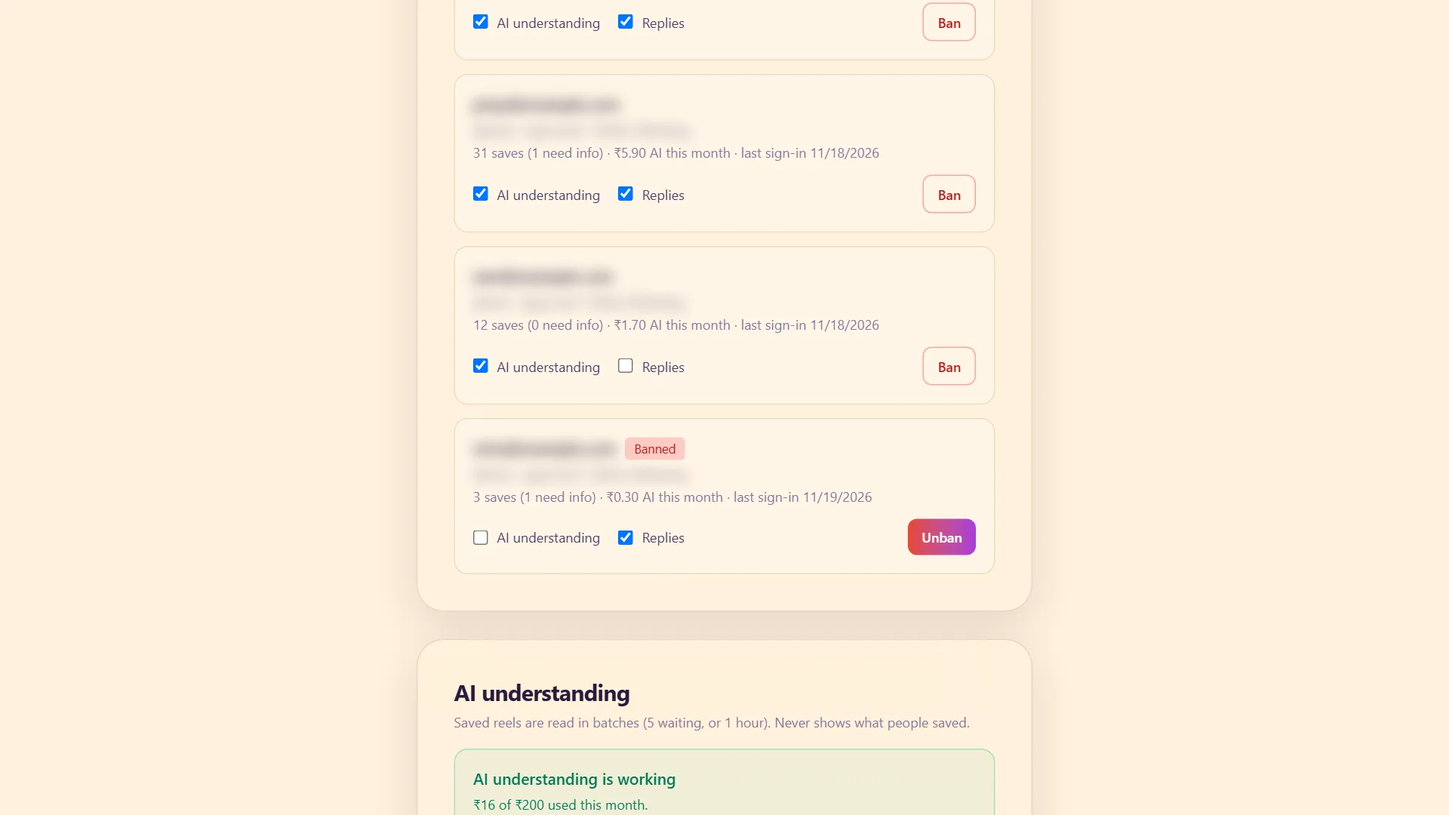
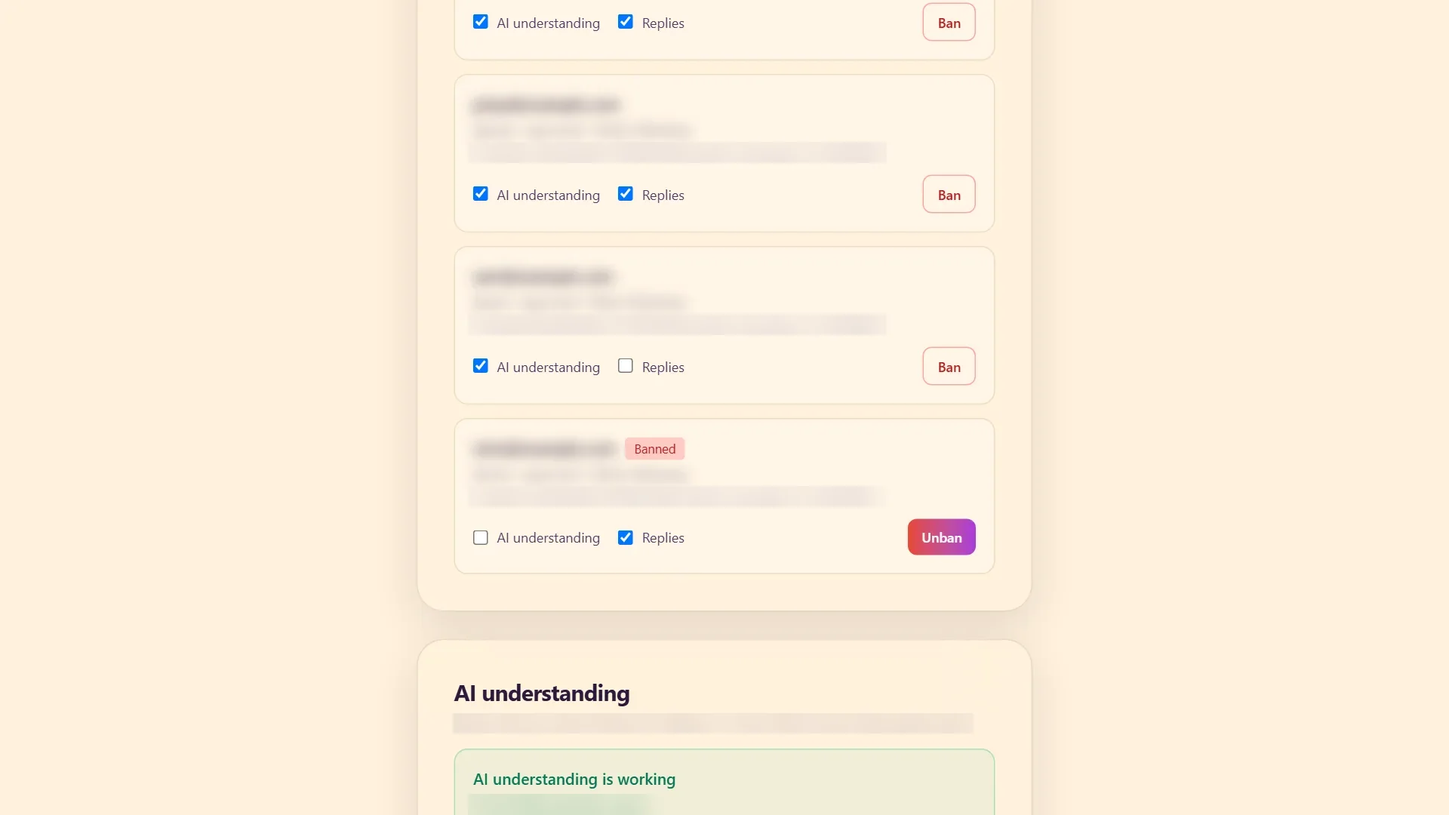
Fol.io page: plainer business copy, general "Built on" section, blurred admin values, volunteer form link
- Rewrite hero, steps, FAQ and tour in plain language; remove vendor and technical detail
- Merge Architecture and Under the hood into one general section with a contact-the-developer link
- Blur sensitive values in the admin screenshots (desktop and mobile)
- Add "Volunteer to test" buttons linking to the sign-up form; keep a tester sign-in link

diff --git a/folio.html b/folio.html
@@ -68,6 +68,10 @@
   .nav ul a { text-decoration: none; opacity: .85; } .nav ul a:hover { opacity: 1; color: var(--c5); }
   .nav .btn { min-height: 42px; padding: 0 20px; background: var(--c2); color: var(--c1); font-size: 15px; }
   .nav .btn::before { background: var(--c5); }
+  .nav-cta { display: flex; align-items: center; gap: 18px; }
+  .nav-signin { font-size: 14px; font-weight: 500; color: var(--c2); text-decoration: none; opacity: .85; white-space: nowrap; }
+  .nav-signin:hover { opacity: 1; color: var(--c5); }
+  @media (max-width: 520px) { .nav-signin { display: none; } }
   @media (max-width: 860px) { .nav ul { display: none; } }
 
   /* hero */
@@ -133,14 +137,16 @@
   /* architecture arches */
   .built { background: var(--c2); }
   .built .h2 { margin-bottom: clamp(28px, 5svh, 48px); }
-  .arches { display: grid; grid-template-columns: repeat(4, minmax(0, 1fr)); gap: 24px; }
-  .arch { border-radius: 999px 999px 0 0; padding: clamp(60px, 9vw, 120px) 28px 34px; min-height: 420px; display: flex; flex-direction: column; gap: 12px; text-align: center; align-items: center; }
+  .arches { display: grid; grid-template-columns: repeat(3, minmax(0, 1fr)); gap: 24px; }
+  .built-lead { margin-bottom: clamp(28px, 5svh, 48px); }
+  .dev-note { margin-top: clamp(28px, 5svh, 48px); display: flex; flex-wrap: wrap; align-items: center; gap: 14px 20px; font-weight: 500; }
+  .status-lead { margin-bottom: clamp(24px, 4svh, 40px); }
+  .arch { border-radius: 999px 999px 0 0; padding: clamp(56px, 7vw, 96px) 28px 34px; min-height: 300px; display: flex; flex-direction: column; gap: 12px; text-align: center; align-items: center; }
   .arch:nth-child(1) { background: var(--c5); } .arch:nth-child(2) { background: var(--c4); }
-  .arch:nth-child(3) { background: var(--c1); color: var(--c2); } .arch:nth-child(4) { background: var(--c3); color: var(--c2); }
+  .arch:nth-child(3) { background: var(--c1); color: var(--c2); }
   .arch h3 { font-size: 26px; }
   .arch p { font-size: 15.5px; }
-  .arch .tag { margin-top: auto; font-size: 13px; font-weight: 600; padding: 4px 14px; border: 1.5px solid currentColor; border-radius: var(--pill); }
-  @media (max-width: 980px) { .arches { grid-template-columns: 1fr 1fr; } }
+  @media (max-width: 980px) { .arches { grid-template-columns: 1fr; } .arch { min-height: 0; padding-top: 56px; } }
   @media (max-width: 560px) { .arches { grid-template-columns: 1fr; } .arch { min-height: 0; } }
 
   /* manifesto */
@@ -152,16 +158,6 @@
   @media (max-width: 760px) { .two { grid-template-columns: 1fr; } }
 
   /* stack tiles */
-  .stack { background: var(--c6); color: var(--c2); }
-  .stack .h2 { margin-bottom: clamp(28px, 5svh, 48px); }
-  .tiles { display: grid; grid-template-columns: 1fr 1fr; gap: 14px; }
-  .tile { border-radius: var(--r); padding: clamp(24px, 3vw, 40px); display: grid; gap: 14px; align-content: start; }
-  .tile:nth-child(1) { background: var(--c5); color: var(--c1); } .tile:nth-child(2) { background: var(--c2); color: var(--c3); }
-  .tile:nth-child(3) { background: var(--c4); color: var(--c1); } .tile:nth-child(4) { background: var(--c1); color: var(--c2); border: 1.5px solid #34376a; }
-  .tile h3 { font-size: 28px; }
-  .tags { display: flex; flex-wrap: wrap; gap: 8px; }
-  .tags span { font-size: 14px; font-weight: 500; padding: 4px 14px; border: 1.5px solid currentColor; border-radius: var(--pill); }
-  @media (max-width: 760px) { .tiles { grid-template-columns: 1fr; } }
 
   /* status (replaces pricing: no prices exist, so this shows real progress) */
   .status { background: var(--c1); color: var(--c2); }
@@ -277,26 +273,26 @@
     <li><a href="#how">How it works</a></li>
     <li><a href="#library">Library</a></li>
     <li><a href="#tour">Tour</a></li>
-    <li><a href="#built">Architecture</a></li>
+    <li><a href="#built">Built on</a></li>
     <li><a href="#status">Status</a></li>
     <li><a href="#faq">FAQ</a></li>
   </ul>
-  <a class="btn" href="https://folio-phi-hazel.vercel.app" target="_blank" rel="noopener">Open Fol.io</a>
+  <div class="nav-cta"><a class="nav-signin" href="https://folio-phi-hazel.vercel.app" target="_blank" rel="noopener">Tester sign in</a><a class="btn" href="https://forms.cloud.microsoft/r/mYv7NbYgfV" target="_blank" rel="noopener">Volunteer to test</a></div>
 </header>
 
 <main id="top">
   <section class="hero">
     <div class="hero-head">
-      <div class="eyebrow">Case study · Live, in early access</div>
+      <div class="eyebrow">Live, in early access</div>
       <h1>Send a reel. <em>Fol.io keeps it</em> and files it.</h1>
-      <p class="lead">An Instagram-first content library. DM reels and posts to <strong>@getfol.io</strong> (or paste a link) and Fol.io saves each one, understands what it is about and organises it for you. No folders to make, no screenshots to lose.</p>
+      <p class="lead">You save reels and never find them again. Send them to Fol.io instead. We keep them, work out what they're about and sort them for you. It's that easy!</p>
       <div class="cta">
-        <a class="btn" href="https://folio-phi-hazel.vercel.app" target="_blank" rel="noopener">Open the app</a>
+        <a class="btn" href="https://forms.cloud.microsoft/r/mYv7NbYgfV" target="_blank" rel="noopener">Volunteer to test</a>
         <a class="link" href="#how">See how it works</a>
       </div>
     </div>
     <div class="easy">
-      <p class="easy-label"><em>It's that easy!</em></p>
+      <p class="easy-label"><em>Four taps, that's all.</em></p>
       <ol class="steps">
         <li><figure><img src="images/folio/steps/step-1-share.webp" alt="An Instagram reel with the share button circled" width="420" height="909" loading="eager"><figcaption><b>1</b>Tap share</figcaption></figure></li>
         <li><figure><img src="images/folio/steps/step-2-select.webp" alt="The Instagram share sheet with getfol.io selected" width="420" height="909"><figcaption><b>2</b>Choose Fol.io</figcaption></figure></li>
@@ -312,11 +308,11 @@
       <h2 class="h2">Five steps from reel to library.</h2>
     </div>
     <div class="col-grid">
-      <article class="col"><div><div class="num">01</div><h3>Send</h3><p>DM a reel or post to @getfol.io, or paste a link. Shares from any chat work.</p></div><div class="note">Sender is recognised from the handle you set.</div></article>
-      <article class="col"><div><div class="num">02</div><h3>Store</h3><p>The message is stored first and acknowledged at once, so nothing is lost if a step fails.</p></div><div class="note">Duplicates are dropped at the door.</div></article>
-      <article class="col"><div><div class="num">03</div><h3>Understand</h3><p>The caption and your note become a title, summary, tags, places and products.</p></div><div class="note">Behind a swappable AI provider.</div></article>
-      <article class="col"><div><div class="num">04</div><h3>Organise</h3><p>Each item is filed into a cluster, like Travel or Food. A new one-word cluster appears only when nothing fits.</p></div><div class="note">Per-user, never shared.</div></article>
-      <article class="col"><div><div class="num">05</div><h3>Reply</h3><p>You get a short text back: saved, filed, or what extra info is needed.</p></div><div class="note">Each reply is sent once.</div></article>
+      <article class="col"><div><div class="num">01</div><h3>Send</h3><p>Share a reel or post with @getfol.io on Instagram, or paste a link. Shares from any chat work.</p></div></article>
+      <article class="col"><div><div class="num">02</div><h3>Keep</h3><p>We save it straight away, so nothing gets lost along the way.</p></div></article>
+      <article class="col"><div><div class="num">03</div><h3>Understand</h3><p>We read the caption and your note to work out what it is about: a title, a short summary, tags and places.</p></div></article>
+      <article class="col"><div><div class="num">04</div><h3>Sort</h3><p>Each save goes into a group like Travel or Food. If nothing fits, we make a new one.</p></div></article>
+      <article class="col"><div><div class="num">05</div><h3>Reply</h3><p>You get a short message back on Instagram: saved, sorted, or what we need from you.</p></div></article>
     </div>
   </section>
 
@@ -325,9 +321,9 @@
       <div class="phone"><div class="screen" style="padding:0;background:#000"><img src="images/folio/mobile/overview-1-dashboard.webp" alt="The Fol.io Overview on a phone: search, colourful cluster tiles and recently saved posts" style="width:100%;height:100%;object-fit:cover;object-position:top;display:block"></div></div>
     </div>
     <div class="parts">
-      <div class="part"><div class="num">What you keep</div><h3>Links and meaning, not media.</h3><p>Fol.io stores the link to the original, the caption and what its AI understood from it. It does not download or keep video, audio or images, which keeps it light and respects the original creator. Cards show a Reel or Post label instead of a picture.</p></div>
+      <div class="part"><div class="num">What you keep</div><h3>Links and meaning, not media.</h3><p>We keep the link, the caption and a short summary of what the post is about. We never copy the video, audio or images, so the original stays with its creator.</p></div>
       <div class="part"><div class="num">What it adds</div><h3>Structure from a caption.</h3><p>A travel reel yields places and duration; a recipe yields dishes and ingredients; a product yields names and attributes. Items filed together make a library you can actually search.</p></div>
-      <div class="part"><div class="num">What stays yours</div><h3>Private by default.</h3><p>A post is read once and its reading shared across users, but each person's saves, clusters and notes are theirs alone, enforced in the database with row-level security. A save with a personal note is read privately and never shared.</p></div>
+      <div class="part"><div class="num">What stays yours</div><h3>Private by default.</h3><p>Your library is yours alone. No one else sees what you save, and you can download or delete everything whenever you like.</p></div>
     </div>
   </section>
 
@@ -339,14 +335,15 @@
   <div id="tourBlocks"></div>
 
   <section class="built" id="built">
-    <div class="eyebrow">Architecture</div>
-    <h2 class="h2">Small, bursty, event-shaped work.</h2>
+    <div class="eyebrow">Built on</div>
+    <h2 class="h2">Built on trusted platforms.</h2>
+    <p class="lead built-lead">Fol.io runs on popular, proven third-party platforms for hosting, storage, messaging and AI, so it stays quick and dependable without us running servers of our own.</p>
     <div class="arches">
-      <article class="arch"><h3>Edge receiver</h3><p>A Cloudflare Worker at a fixed address verifies the Instagram signature, stores the event and replies in milliseconds.</p><span class="tag">Cloudflare Worker</span></article>
-      <article class="arch"><h3>Stored inbox</h3><p>Events wait in Postgres and are claimed in batches with row locks. A restart loses nothing.</p><span class="tag">Supabase Postgres</span></article>
-      <article class="arch"><h3>Stateless API</h3><p>FastAPI runs as Vercel functions in Singapore, close to the database. No idle server to keep alive.</p><span class="tag">FastAPI · Vercel</span></article>
-      <article class="arch"><h3>Caption AI</h3><p>One shared reading per post: later people who save the same post only get a filing call. Batched, cost-capped, with a circuit breaker, behind a provider interface.</p><span class="tag">Gemini · swappable</span></article>
+      <article class="arch"><h3>Dependable</h3><p>Your saves are stored first, so nothing is lost if something goes wrong along the way.</p></article>
+      <article class="arch"><h3>Private</h3><p>Each person's library is kept separate. What you save is seen by you alone.</p></article>
+      <article class="arch"><h3>Ready to grow</h3><p>Built on services that scale, so more people can join without slowing things down.</p></article>
     </div>
+    <p class="dev-note">Developer, or looking to collaborate? <a class="btn" href="mailto:kartikeyadubey1997@gmail.com?subject=Fol.io%20collaboration&amp;body=Hi%20Kartikeya%2C%0A%0A">Contact the developer</a></p>
   </section>
 
   <section class="manifesto">
@@ -363,30 +360,21 @@
     </div>
   </section>
 
-  <section class="stack">
-    <div class="eyebrow">Under the hood</div>
-    <h2 class="h2">Boring where it should be.</h2>
-    <div class="tiles">
-      <article class="tile"><h3>Backend</h3><p>Typed settings, one error shape, JSON logs with request ids, a shared Postgres rate limiter, per-user AI cost tracking with a monthly cap, and startup that refuses weak secrets.</p><div class="tags"><span>FastAPI</span><span>Pydantic</span><span>SQLAlchemy async</span><span>Alembic</span></div></article>
-      <article class="tile"><h3>Frontend</h3><p>Sign-up, setup frame, Overview with cluster tiles and a pop-up, a Library with a search panel and grouped results, Clusters, an Actions tab, Settings, an admin console, pull to refresh on every signed-in page, a coral and plum theme in light and dark, and an installable PWA.</p><div class="tags"><span>React</span><span>TypeScript</span><span>Vite</span><span>Tailwind</span><span>Vitest</span></div></article>
-      <article class="tile"><h3>Security</h3><p>15-minute access tokens with rotating httpOnly refresh cookies, reuse detection, CSRF header and a least-privilege database role. A post is read once; notes stay private.</p><div class="tags"><span>Row-level security</span><span>Signed webhooks</span><span>Encrypted tokens</span></div></article>
-      <article class="tile"><h3>Delivery</h3><p>Changes land by pull request. CI runs tests, then migrations, then the deploy, as a gated workflow. A Cloudflare watchdog messages Telegram if the API stops answering.</p><div class="tags"><span>GitHub Actions</span><span>Cloudflare Worker</span><span>pytest</span><span>ruff</span></div></article>
-    </div>
-  </section>
-
+  
   <section class="status" id="status">
     <div class="eyebrow">Status</div>
-    <h2 class="h2">Early access. Built milestone by milestone.</h2>
+    <h2 class="h2">Early access.</h2>
+    <p class="lead status-lead">We're in early testing and looking for people who actively use Instagram content to revisit. It's free for you.</p>
     <div class="plans">
       <article class="plan live">
         <div class="num">Live</div>
         <ul>
-          <li>Accounts with email verification, setup frame and short text replies</li>
-          <li>Instagram DMs and pasted links saved once per post, read once by the AI</li>
-          <li>One-word clusters, filing, notes, search and filters, export and account deletion</li>
-          <li>Overview, an Actions tab, themes, an admin console with AI cost, alerts and health checks</li>
+          <li>Save reels and posts by message or link</li>
+          <li>Automatic sorting into groups you can edit</li>
+          <li>Search, notes and your own filters</li>
+          <li>Download or delete your data any time</li>
         </ul>
-        <a class="btn" href="https://folio-phi-hazel.vercel.app" target="_blank" rel="noopener">Open Fol.io</a>
+        <div class="cta"><a class="btn" href="https://forms.cloud.microsoft/r/mYv7NbYgfV" target="_blank" rel="noopener">Volunteer to test</a><a class="link" href="https://folio-phi-hazel.vercel.app" target="_blank" rel="noopener">Already a tester? Sign in</a></div>
       </article>
     </div>
   </section>
@@ -395,10 +383,10 @@
     <div>
       <h2 class="h2">Questions.</h2>
       <details><summary>Who is Fol.io for?</summary><p>Anyone who saves a lot of Instagram content and wants it findable later: travel ideas, recipes, products, workouts, study material.</p></details>
-      <details><summary>Does it store my videos?</summary><p>No. It keeps the link, the caption and what the AI understood from the caption. The original stays on Instagram, and no video, audio or image is copied.</p></details>
-      <details><summary>Can other users see my saves?</summary><p>No. A post is understood once and shared internally, but your saves, notes and clusters are private to you and protected in the database itself.</p></details>
-      <details><summary>How do I get access?</summary><p>Fol.io is in early access. Create an account, set your Instagram handle and an admin confirms you for testing.</p></details>
-      <details><summary>Is this connected to DexAI?</summary><p>Fol.io started from DexAI's patterns (FastAPI, Postgres, React) and then moved to a lighter, event-driven design that suits bursty message work. <a class="link" href="dexai.html">See DexAI</a>.</p></details>
+      <details><summary>Does it store my videos?</summary><p>No. We keep the link, the caption and a short summary of what the post is about. The original stays on Instagram, and no video, audio or image is copied.</p></details>
+      <details><summary>Can other users see my saves?</summary><p>No. Your saves, notes and clusters are private to you.</p></details>
+      <details><summary>How do I get access?</summary><p>Fol.io is in early testing and free for volunteers. <a class="link" href="https://forms.cloud.microsoft/r/mYv7NbYgfV" target="_blank" rel="noopener">Fill in the short volunteer form</a> and we will contact you to help set up your access. After that you can create your account.</p></details>
+      <details><summary>Is this connected to DexAI?</summary><p>Fol.io grew out of what I learned building DexAI, my earlier project. Different product, same care. <a class="link" href="dexai.html">See DexAI</a>.</p></details>
     </div>
     <div class="faq-arch" aria-hidden="true"><img src="folio-mark.png" alt=""></div>
   </section>
@@ -417,8 +405,8 @@
   <div class="f-top">
     <p class="f-lead">Send it once. Find it forever.</p>
     <div class="f-cols">
-      <ul><li><a href="#how">How it works</a></li><li><a href="#tour">Product tour</a></li><li><a href="#built">Architecture</a></li><li><a href="#status">Status</a></li></ul>
-      <ul><li><a href="index.html">Portfolio</a></li><li><a href="dexai.html">DexAI</a></li><li><a href="https://folio-phi-hazel.vercel.app" target="_blank" rel="noopener">Open Fol.io</a></li></ul>
+      <ul><li><a href="#how">How it works</a></li><li><a href="#tour">Product tour</a></li><li><a href="#built">Built on</a></li><li><a href="#status">Status</a></li></ul>
+      <ul><li><a href="index.html">Portfolio</a></li><li><a href="dexai.html">DexAI</a></li><li><a href="https://forms.cloud.microsoft/r/mYv7NbYgfV" target="_blank" rel="noopener">Volunteer to test</a></li><li><a href="https://folio-phi-hazel.vercel.app" target="_blank" rel="noopener">Tester sign in</a></li></ul>
     </div>
   </div>
   <div class="f-base">
@@ -452,29 +440,30 @@
 
   var FEATURES = [
     { bg: 'on-dark', w: ['Set', 'up'], tag: 'Account', title: 'An account and a three-step setup',
-      text: 'Email sign-up with a verification link, then a setup frame over the page, blurred behind, walks through the three things Fol.io needs: a confirmed email, your Instagram username and a follow of @getfol.io. Fol.io only asks you for your Instagram username, nothing more. It does not access your Instagram data or account. While Fol.io is only waiting for your first message you can skip ahead.',
-      points: [['Email verification', 'a link in your inbox, with resend and live password rules at sign-up.'], ['Instagram username', 'the only thing asked about you on Instagram, so messages sent to the account can be matched to you. Nothing more, and no access to your data or account.'], ['Follow check', 'if you do not follow @getfol.io, Instagram may not deliver your messages, so this becomes a task on the Actions tab instead of blocking setup.']],
+      text: 'Sign up with your email and confirm it with a link. Then two quick steps: tell us your Instagram username and follow @getfol.io. Fol.io only asks you for your Instagram username, nothing more. It does not access your Instagram data or account.',
+      points: [['Email confirmation', 'a link in your inbox, with a resend button if it goes missing.'], ['Instagram username', 'the only thing asked about you on Instagram, so messages sent to the account can be matched to you. Nothing more, and no access to your data or account.'], ['Follow check', 'if you do not follow @getfol.io, Instagram may not deliver your messages, so this shows up as a task on the Actions tab instead of blocking you.']],
       slides: [['auth-1-login', 'Sign in'], ['auth-2-signup', 'Create account'], ['setup-1-handle', 'Setup: Instagram username', 'Only your Instagram username. Nothing more. We never access your data or account.'], ['setup-2-follow', 'Setup: follow @getfol.io']] },
     { bg: 'on-cream', w: ['Over', 'view'], tag: 'Overview', title: 'Your library at a glance',
-      text: 'The first screen after sign-in. A search box with a Search button, one colourful tile per cluster that has saves, and the posts saved most recently. Tap a tile and a pop-up lists that cluster\'s latest saves, with the page blurred behind it. When something needs you, an amber tile comes first.',
-      points: [['Cluster tiles', 'a colour and emoji per cluster, the count and a small raised "+N" for saves new this week. They scroll inside their own panel so the page stays still on a phone.'], ['User Action tile', 'an amber tile with the number of open tasks, matching the dot on the Actions tab. It opens the Actions page.'], ['Pop-up', 'a bottom sheet on phones and a centred dialog on laptops; Back, Escape or a tap outside closes it. "See more in My Library" opens the Library filtered to the cluster.'], ['Recently saved', 'one row per save, showing every cluster it was filed under.'], ['Look and feel', 'a coral and plum palette in light and dark, a tab bar at the bottom on phones and a bar under the top on laptops, and pull down to refresh on every signed-in page.']],
+      text: 'The first screen after sign-in: a search box, one colourful tile per cluster, and your latest saves. Tap a tile to see that cluster\'s newest saves. When something needs you, an amber tile comes first.',
+      points: [['Cluster tiles', 'a colour and emoji per cluster, the count, and a small "+N" for saves new this week.'], ['User Action tile', 'an amber tile with the number of open tasks. It opens the Actions page.'], ['Recently saved', 'one row per save, showing every cluster it was filed under.']],
       slides: [['overview-1-dashboard', 'Overview'], ['overview-2-popup', 'A cluster\'s latest saves'], ['overview-3-dark', 'Dark theme'], ['actions-1-tasks', 'Actions: what only you can do'], ['overview-4-empty', 'First-use empty state']] },
     { bg: 'on-ink', w: ['Lib', 'rary'], tag: 'Library', title: 'Search it, filter it, fix it',
-      text: 'Every save with its AI title, summary, tags and places. Search across all of it, pick one or several cluster tiles, filter by tag, place or date, add a note, or file a save by hand. Saves the AI could not sort are not mixed in here: they wait on the Actions tab until you help.',
-      points: [['Search panel', 'words, tag, place and dates in one panel. The list changes when you press Search, not while you type. Tags on a card are clickable.'], ['Cluster tiles', 'select one or several. With several, saves sit under folding headings that name the selected clusters they are in, each save listed once.'], ['Notes', 'add context to a save; it is read again within about a minute and kept private.'], ['Filing by hand', 'up to five clusters per save; the AI never changes a filing you made.'], ['The queue', 'posts still being read show as "In the queue" until they are filed.']],
+      text: 'Every save with its title, summary, tags and places. Search across all of it, pick one or several clusters, filter by tag, place or date, add a note, or file a save yourself. Saves we could not sort are not mixed in here: they wait on the Actions tab until you help.',
+      points: [['Search panel', 'words, tag, place and dates in one panel. Tags on a card are clickable.'], ['Cluster tiles', 'select one or several. With several, saves are grouped by the clusters they belong to.'], ['Notes', 'add context to a save and we take another look. Your notes stay private.'], ['Filing by hand', 'put a save in up to five clusters. Fol.io never changes what you chose.'], ['The queue', 'posts we are still working on show as "In the queue".']],
       slides: [['library-1-list', 'My Library'], ['library-2-filters', 'Filtered to one cluster'], ['library-7-grouped', 'Several clusters, grouped'], ['library-3-note', 'Add a note'], ['library-4-clusters', 'Change clusters'], ['library-6-queue', 'Queued posts']] },
     { bg: 'on-lav', w: ['Clus', 'ters'], tag: 'Clusters', title: 'One-word clusters you control',
-      text: 'Posts are filed into one-word clusters like Food, Travel or Tech. The AI creates a new cluster only when nothing fits, and reuses an existing word instead of making near-duplicates. You can rename, change the emoji, merge or delete.',
-      points: [['Starter set', 'fourteen one-word clusters (Food, Locations, Travel, Fitness, Business, Fashion, Beauty, Tech, Money, Learning, Home, Entertainment, Music, Shopping), plus Other and Needs info which stay fixed.'], ['Edit anything', 'rename, pick an emoji, merge two clusters or delete one; its saves are moved, never lost.'], ['Limits', 'up to 40 clusters per person, shown as "N of 40". At the limit new topics go to Other and an Actions task asks you to merge or delete a few.']],
+      text: 'Posts are sorted into one-word clusters like Food, Travel or Tech. A new cluster is created only when nothing fits. Rename them, change the emoji, merge or delete: it is your library.',
+      points: [['Starter set', 'fourteen starter clusters, such as Food, Travel, Fitness and Tech, plus Other and Needs info.'], ['Edit anything', 'rename, pick an emoji, merge two clusters or delete one; its saves are moved, never lost.'], ['Limits', 'up to 40 clusters per person. At the limit new topics go to Other and a task asks you to merge or delete a few.']],
       slides: [['clusters-1-list', 'Clusters'], ['clusters-2-edit', 'Rename and emoji']] },
     { bg: 'on-dark', w: ['Set', 'tings'], tag: 'Settings', title: 'Your account and your data',
       text: 'Theme, password and Instagram username in one place, an install guide for the home screen, and the controls that matter for privacy: download a copy of everything Fol.io holds about you, or delete the account and all of it.',
-      points: [['Theme', 'system, light or dark.'], ['Export', 'a JSON file of your saves, clusters and notes.'], ['Delete account', 'removes the account and everything in it after a confirmation.']],
+      points: [['Theme', 'system, light or dark.'], ['Export', 'a copy of your saves, clusters and notes.'], ['Delete account', 'removes the account and everything in it after a confirmation.']],
       slides: [['settings-1-account', 'Account and Instagram'], ['settings-2-data', 'Your data']] },
-    { bg: 'on-cream', w: ['Ad', 'min'], tag: 'Admin', title: 'Control, cost and health in one console',
-      text: 'For the operator: who is using it, what the AI costs, and whether anything is stuck. Cost is tracked in rupees per call, per user and per post against a monthly cap, with an invoice check. A Telegram bot reports cost thresholds and outages.',
-      points: [['Access requests', 'who asked to join, their setup progress, and a mark for tester added or connected.'], ['Accounts', 'ban an account and switch AI reading or replies on and off per user.'], ['AI status and cost', 'queue, spend against the cap, cost per user and per post, prices and an invoice check.'], ['Clusters and events', 'aggregate counts only (a name used by one person is hidden), plus failed events with a retry.'], ['Alerts', 'Telegram messages for cost, provider trouble and a Cloudflare watchdog for outages.']],
-      slides: [['admin-1-accounts', 'Accounts'], ['admin-2-ai-status', 'AI understanding'], ['admin-3-ai-cost', 'AI cost'], ['admin-4-clusters', 'Clusters and events']] },
+    { bg: 'on-cream', w: ['Ad', 'min'], tag: 'Admin', title: 'The owner\'s view',
+      text: 'For the team running Fol.io: who is using it, how the service is doing, and whether anything needs attention. Sensitive values are hidden in these screenshots.',
+      points: [['Access requests', 'who asked to join and how far their setup has got.'], ['Accounts', 'pause or ban an account and switch features on or off per person.'], ['Service status', 'how the service is running and whether anything is stuck.'], ['Privacy built in', 'clusters are shown as counts only, so what you save stays private.']],
+      slides: [['admin-1-accounts']],
+      slides: [['admin-1-accounts', 'Access requests'], ['admin-2-ai-status', 'Accounts and service status'], ['admin-3-ai-cost', 'Usage'], ['admin-4-clusters', 'Cluster overview']] },
     { bg: 'on-ink', w: ['Tre', 'nds'], tag: 'Trends', title: 'What you save most, over time', badge: 'To be released', soon: true,
       text: 'A private view of your own saving habits: topics over time and what you keep coming back to. A page is in place that says it is coming; nothing is built yet.',
       points: [['Your own data only', 'trends are about your saves and visible only to you.'], ['Not market data', 'aggregated trends for others are a different product and are not planned here.']] }
